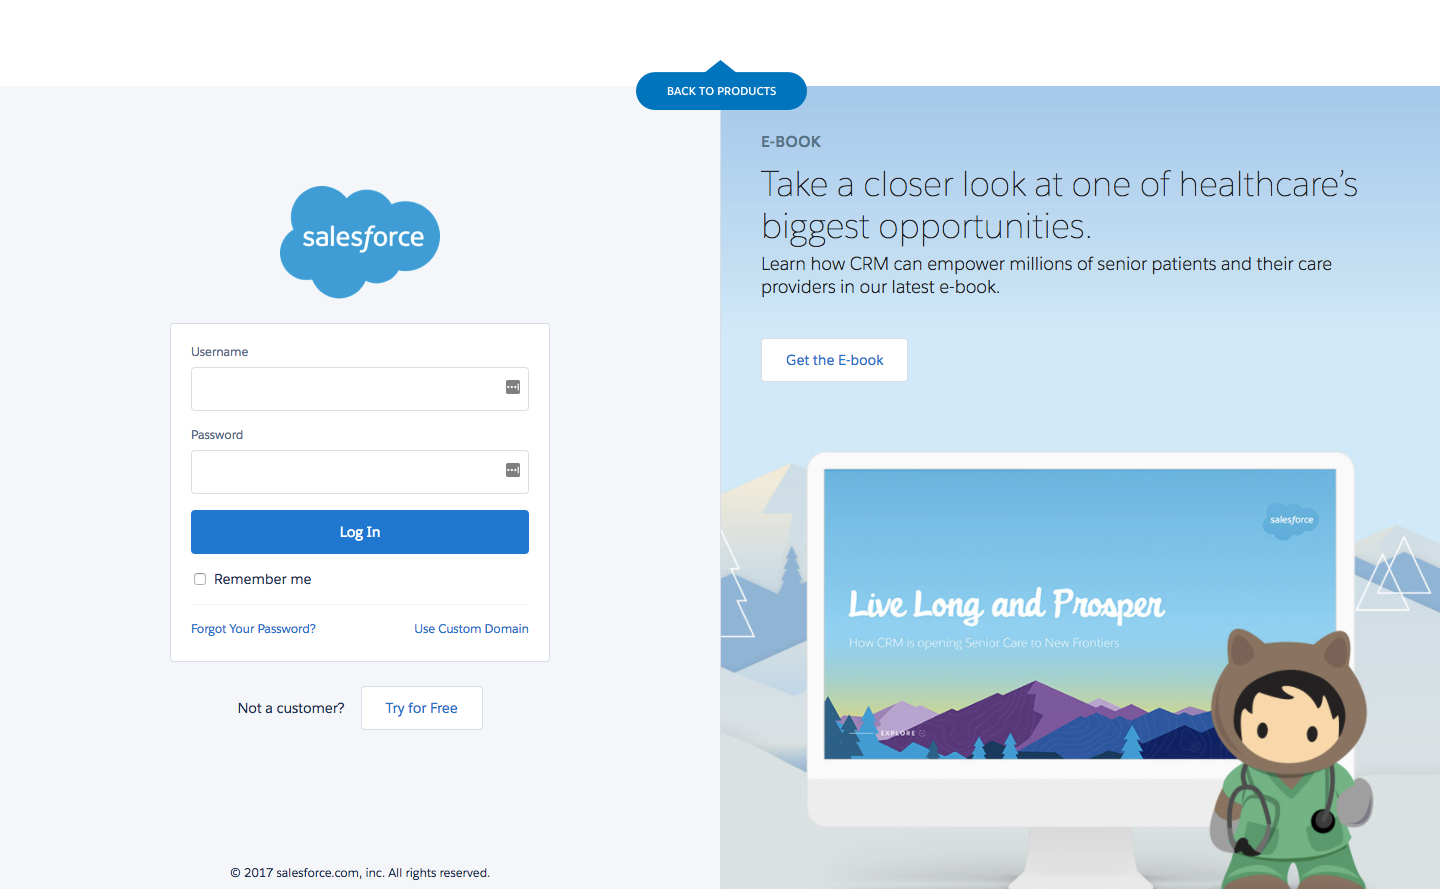
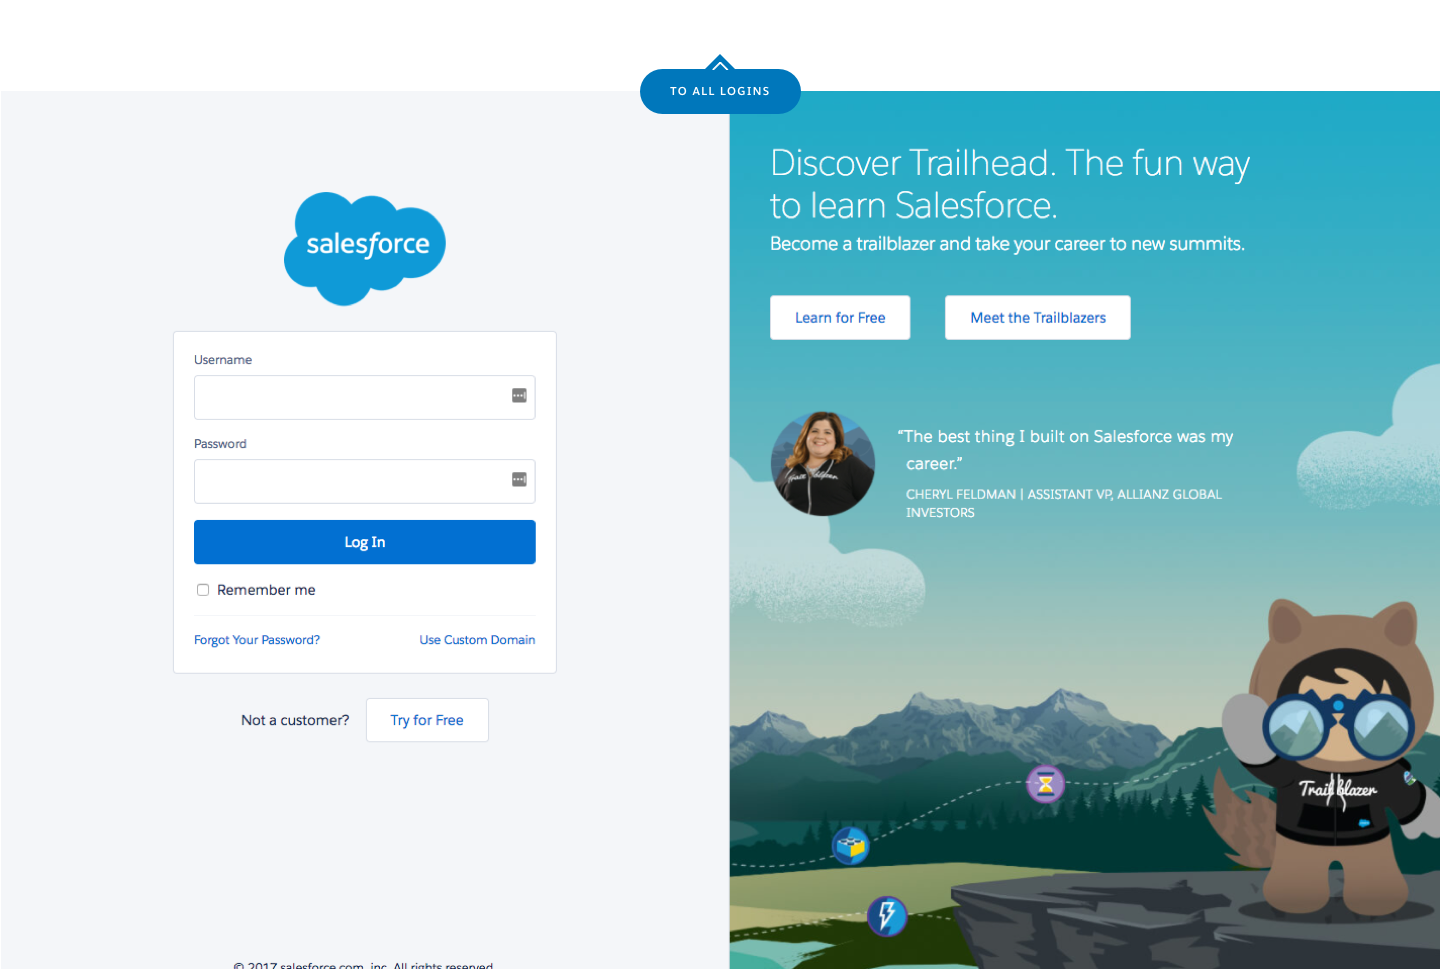
add another product task

diff --git a/js/main.js b/js/main.js
@@ -8,6 +8,9 @@ $(document).ready(function(){
       $("#sfdc-card").fadeIn("fast", function() {
         $("#sfdc-card").show();
       });
+      $("#marketing-card").fadeIn("fast", function() {
+        $("#marketing-card").show();
+      });
       $("#grey-background").fadeIn("fast", function() {
         $("#grey-background").show();
       });
@@ -35,6 +38,24 @@ $(document).ready(function(){
       $("#back-arrow").fadeIn("fast", function() {
         $("#back-arrow").show();
       });
+      $("#marketing-login-container").fadeOut("fast", function() {
+        $("#marketing-login-container").hide();
+      });
+  });
+
+  $("#marketing-card").click(function(){
+      $("#marketing-login-container").fadeIn("fast", function() {
+        $("#marketing-login-container").show();
+      });
+      $("#marketing-login").fadeIn("fast", function() {
+        $("#marketing-login").show();
+      });
+      $("#back-arrow").fadeIn("fast", function() {
+        $("#back-arrow").show();
+      });
+      $("#sfdc-login-container").fadeOut("fast", function() {
+        $("#sfdc-login-container").hide();
+      });
   });
 
   $("#close").click(function(){
@@ -42,6 +63,9 @@ $(document).ready(function(){
         $("#lightbox").hide();
       });
     $("#sfdc-card").fadeOut("fast", function() {
+        $("#sfdc-card").hide();
+      });
+     $("#marketing-card").fadeOut("fast", function() {
         $("#sfdc-card").hide();
       });
     $("#grey-background").fadeOut("fast", function() {
@@ -52,6 +76,9 @@ $(document).ready(function(){
       });
     $("#sfdc-login-container").fadeOut("fast", function() {
         $("#sfdc-login-container").hide();
+      });
+    $("#marketing-login-container").fadeOut("fast", function() {
+        $("#marketing-login-container").hide();
       });
       $("#back-arrow").fadeOut("fast", function() {
         $("#back-arrow").hide();

diff --git a/css/main.css b/css/main.css
@@ -325,16 +325,53 @@ textarea {
   margin-right: auto;
 }
 
-.sfdc-card {
+.marketing-card-container {
+  width: 1440px;
+  position: relative;
+}
+
+.marketing-card {
     display: none;
     width: 410px;
     height: 110px;
     position: absolute;
     top: 200px;
-    left: 78px;
+    left: 510px;
     cursor: pointer;
     z-index: 4;
 }
+
+.marketing-login-container {
+  display: none;
+  margin-top: 900px;
+  width: 100%;
+  left: 0;
+  right: 0;
+  position: absolute;
+  z-index: 5;
+}
+
+.marketing-login {
+  /*display: none;*/
+  margin: auto;
+  position: absolute;
+  left: 50%;
+  right: 0;
+  margin-left: 0;
+  margin-right: 0;
+  z-index: 999;
+  transform: translate(-50%, 0);
+  top: -91px;
+}
+
+.marketing-login-background {
+  width: 100%;
+  background: #F4F6F9;
+  height: 1320px;
+  top: 900px;
+}
+
+/* SFDC LOGIN *************************************/
 
 .sfdc-login-container {
     display: none;
@@ -363,8 +400,18 @@ textarea {
   margin-right: 0;
   z-index: 999;
   transform: translate(-50%, 0);
-  top: -86px;
+  top: -91px;
+}
 
+.sfdc-card {
+    display: none;
+    width: 410px;
+    height: 110px;
+    position: absolute;
+    top: 200px;
+    left: 78px;
+    cursor: pointer;
+    z-index: 4;
 }
 
 .sfdc-card-container {
@@ -378,7 +425,7 @@ textarea {
   height: 100%;
   position: absolute;
   z-index: 2;
-  background: #777;
+  background:   #777;
   opacity: 1;
   right: 0;
   left: 0;

diff --git a/index.html b/index.html
@@ -26,14 +26,27 @@
             <a href="#body" class="back-arrow_anchor">
                 <div id="back-arrow" class="back-arrow"></div>
             </a>
+            
             <div id="back-arrow" class="back-arrow"></div>
+
             <div id="sfdc-login-container" class="sfdc-login-container">
                 <img id="sfdc-login" class="sfdc-login" src="img/sfdc_login.png" alt="">
                 <div class="sfdc-login-background"></div>
             </div>
+
+            <div id="marketing-login-container" class="marketing-login-container">
+                <img id="marketing-login" class="marketing-login" src="img/marketing_login.png" alt="">
+                <div class="marketing-login-background"></div>
+            </div>
+
+            <a href="#marketing-login" class="marketing-card-container">
+                <div id="marketing-card" class="marketing-card"></div>
+            </a>
+
             <a href="#sfdc-login" class="sfdc-card-container">
                 <div id="sfdc-card" class="sfdc-card"></div>
             </a>
+
             <img id="lightbox" class="lightbox" src="img/fullscreen_lightbox.png">
             <div id="grey-background" class="grey-background"></div>
             <img id="prospect-homepage" class="prospect-homepage" src="img/prospect-homepage.png" alt="">
